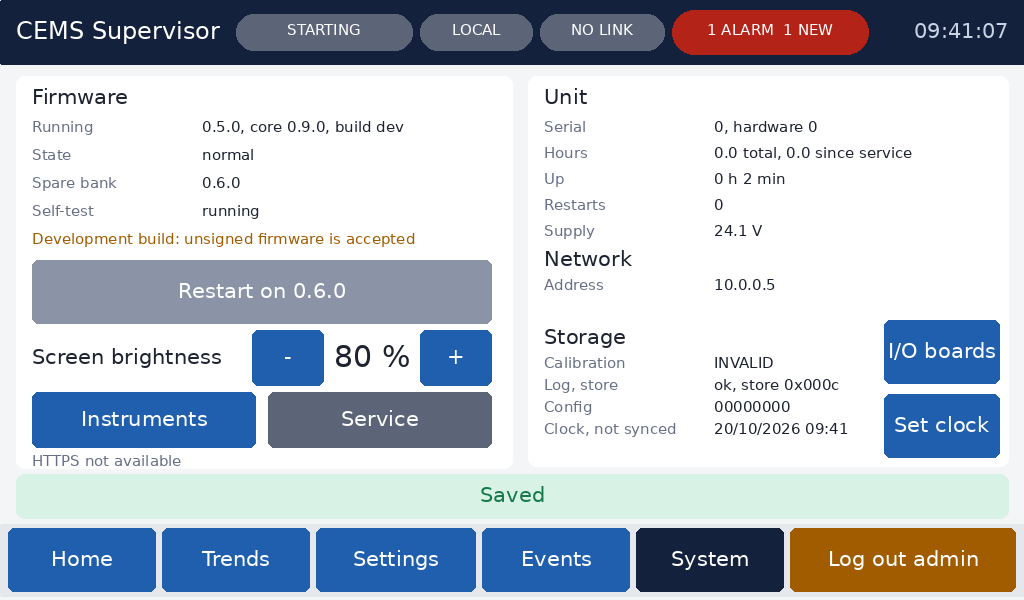
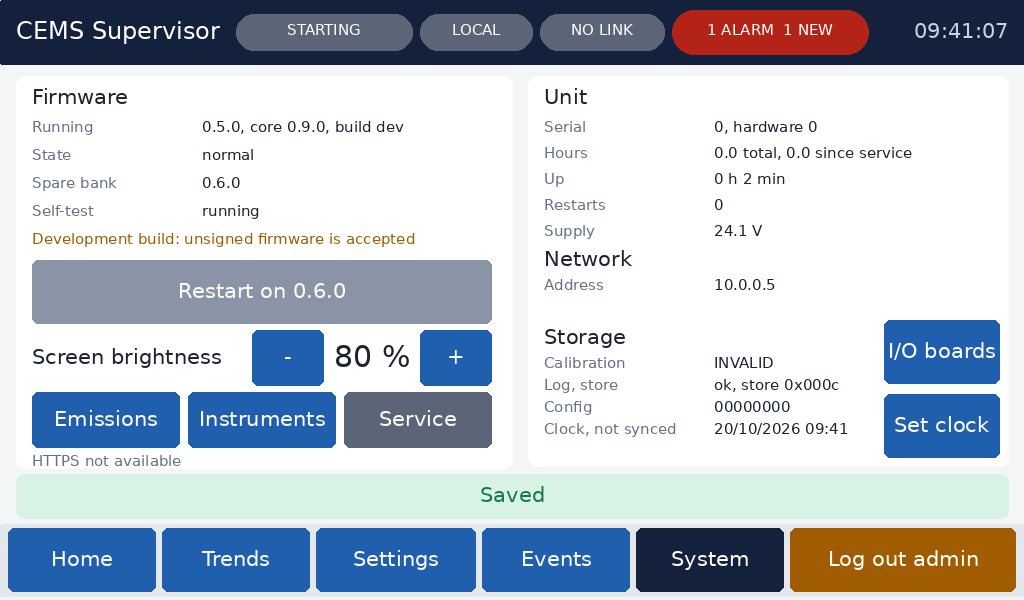
HMI: System > Emissions, the emissions engine's results (read only)
Each channel in use: now corrected (reference O2 where it applies, else
standard dry), this period so far, last validated average, last day,
each greyed with its quality word when not valid. Under it: status words
(above calibration range, over/below range, input missing, day invalid,
QAL2 due, discarded today), QAL3 state (ok, due, beyond the action
limit, OUT OF CONTROL zero/span) and the second period (10-min CO: last
average, how many above the limit today). Top line: operating or not,
period, reference; a configuration error names the channel. System gets
an Emissions button beside Instruments and Service. Operator manual 8d,
t_emis_screen, screenshots.

Claude-Session: https://claude.ai/code/session_01AbDXgecyAmn6R8hhL7qjD2

Changed region(s): [[0.0625, 0.63, 0.4375, 0.75]]

diff --git a/platform/ui/ui.c b/platform/ui/ui.c
@@ -29,6 +29,7 @@
 #include "plat_selftest.h"
 #include "plat_boardtest.h"
 #include "inst.h"
+#include "emis_bind.h"
 #include "plat_version.h"
 
 /* ---------------- layout and colours (1024 x 600) ---------------- */
@@ -80,6 +81,7 @@ enum {
     T_TR_ADD = 206, T_TR_DEL, T_TR_CLR, T_TRENDS,       /* trends */
     T_SVC = 226, T_SVC_BT, T_SVC_LOG,                  /* service screen, board test, add a service log entry */
     T_INST = 229,           /* System: open the instruments page */
+    T_EMIS = 237,           /* System: open the emissions page */
     T_AL_ROW0 = 220,        /* .. T_AL_ROW0 + ROWS - 1: tap an alarm for what to check */
     T_DISP = 230, T_DT_COLOURS, T_DT_TOUCH, T_DT_NEXT, T_DT_CLEAR, T_DT_DONE,  /* display test (bench bring-up) */
     T_FORCE = 240, T_FC_CLEAR_ALL,      /* Modbus force (commissioning) */
@@ -90,6 +92,7 @@ typedef enum { KB_NUM, KB_IP, KB_TEXT, KB_BOOL } kb_t;
 typedef enum { ACT_NONE, ACT_POST, ACT_BLOB, ACT_FW, ACT_FW_LOCAL, ACT_CAL, ACT_FORCE, ACT_ELEM, ACT_BT } act_t;
 #define TR_PENS 4
 #define INST_PT_ROWS 9u          /* instruments page: point rows shown */
+#define EMIS_ROWS 5u             /* emissions page: channel rows shown */
 #define TR_N    150              /* trend samples kept: 10 minutes at TR_MS */
 #define TR_MS   4000u
 
@@ -172,6 +175,7 @@ static struct {
     uint8_t  svc_step;
     uint8_t  inst_sel;             /* instruments page: the instrument shown (0..INST_MAX-1), its first point row */
     unsigned inst_first;
+    unsigned emis_first;           /* emissions page: first channel row (of the channels in use) */
     char     svc_tech[16];
     /* record editor */
     const ui_record_t *rec;
@@ -913,6 +917,11 @@ static void tap(uint8_t t, uint32_t now) {
             goto_scr(UI_TRENDS);
         }
         break;
+    case UI_EMIS:
+        if (t == T_BACK) goto_scr(UI_SYSTEM);
+        else if (t == T_PGUP) { U.emis_first = U.emis_first >= EMIS_ROWS ? U.emis_first - EMIS_ROWS : 0; U.dirty = true; }
+        else if (t == T_PGDN) { U.emis_first += EMIS_ROWS; U.dirty = true; }
+        break;
     case UI_INST:
         if (t == T_BACK) goto_scr(UI_SYSTEM);
         else if (t >= T_ROW0 && t < T_ROW0 + INST_MAX) { U.inst_sel = (uint8_t)(t - T_ROW0); U.inst_first = 0; U.dirty = true; }
@@ -951,6 +960,7 @@ static void tap(uint8_t t, uint32_t now) {
         } else if (t == T_IOB) goto_scr(UI_IOB);
         else if (t == T_SVC) goto_scr(UI_SERVICE);
         else if (t == T_INST) { U.inst_first = 0; goto_scr(UI_INST); }
+        else if (t == T_EMIS) { U.emis_first = 0; goto_scr(UI_EMIS); }
         else if (t == T_CAL) { unsigned a; if (plat_cal_active(&a)) U.cal_ch = (uint8_t)a; goto_scr(UI_CAL); }
         else if (t == T_BRIGHT_DN) { U.bright = U.bright > 20 ? (uint8_t)(U.bright - 20) : 10; U.dirty = true; }
         else if (t == T_BRIGHT_UP) { U.bright = U.bright < 80 ? (uint8_t)(U.bright + 20) : 100; U.dirty = true; }
@@ -1401,8 +1411,9 @@ static void draw_system(uint32_t now) {
     button(T_BRIGHT_DN, 252, BODY_Y + 254, 72, 56, "-", C_ACCENT, true);
     color(C_INK); text(372, BODY_Y + 282, F_BIG, OPT_CENTER, b);
     button(T_BRIGHT_UP, 420, BODY_Y + 254, 72, 56, "+", C_ACCENT, true);
-    button(T_INST, 32, BODY_Y + 316, 224, 56, "Instruments", C_ACCENT, true);   /* third-party analysers (inst.h) */
-    button(T_SVC, 268, BODY_Y + 316, 224, 56, "Service", 0x5B6577u, true);   /* self-test, board test, service log, display test */
+    button(T_EMIS, 32, BODY_Y + 316, 148, 56, "Emissions", C_ACCENT, true);     /* the emissions engine's results (emis.h) */
+    button(T_INST, 188, BODY_Y + 316, 148, 56, "Instruments", C_ACCENT, true);  /* third-party analysers (inst.h) */
+    button(T_SVC, 344, BODY_Y + 316, 148, 56, "Service", 0x5B6577u, true);      /* self-test, board test, service log, display test */
     /* HTTPS fingerprint: a technician compares it with the browser's to know it reached this unit */
     const char *fp = tls_fingerprint();
     color(C_MUTE); text(32, BODY_Y + 378, F_SMALL, 0, fp[0] ? "HTTPS certificate fingerprint (SHA-256)" : "HTTPS not available");
@@ -2100,6 +2111,112 @@ static void draw_tr_pick(void) {
     if (!n) { color(C_MUTE); text(456, BODY_Y + 200, F_TEXT, OPT_CENTER, "No values to trend"); }
     button(T_PGUP, 908, BODY_Y, 100, 120, "Up", C_ACCENT, U.tr_first > 0);
     button(T_PGDN, 908, BODY_Y + 136, 100, 120, "Down", C_ACCENT, U.tr_first + ROWS < n);
+    button(T_BACK, 908, BODY_Y + 272, 100, 120, "Back", 0x5B6577u, true);
+}
+
+/* ---------------- emissions (emis.h, docs/EMISSIONS_MATH.md), read only ---------------- */
+static const char *const emis_slot[EMIS_CH_MAX] = {     /* the standard block's slot names (docs/MODBUS_STANDARD_BLOCK.md) */
+    "O2 dry", "O2 wet", "CO2", "CO", "NO", "NO2", "NOx as NO2", "SO2", "HCl", "HF", "NH3", "H2O",
+    "TOC as C", "CH4", "N2O", "H2S", "Hg", "Dust", "Flue gas flow", "Flue gas velocity",
+    "Stack temperature", "Stack pressure", "Sample flow", "Probe/line temp.", "Cooler temp.", "Cell temp.",
+    "Cabinet temp.", "Air/cal gas pressure", "Opacity", "TRS", "Spare 31", "Spare 32" };
+static const char *emis_unit(uint8_t u, bool raw) {      /* the unit a bank is in (EMISSIONS_MATH section 2) */
+    if (u == EMIS_U_PPM || u == EMIS_U_MG_ACT || u == EMIS_U_MG_STD) return raw ? (u == EMIS_U_PPM ? "ppm" : u == EMIS_U_MG_ACT ? "mg/m\xC2\xB3" : "mg/Nm\xC2\xB3") : "mg/Nm\xC2\xB3";
+    if (u == EMIS_U_PCT) return "%";
+    if (u == EMIS_U_FLOW_ACT || u == EMIS_U_FLOW_STD) return raw && u == EMIS_U_FLOW_ACT ? "m\xC2\xB3/h" : "Nm\xC2\xB3/h";
+    return "";
+}
+/* one value right-aligned at x: the number and unit, greyed with its quality word under it when not valid */
+static void emis_cell(int16_t x, int16_t y, float v, uint8_t q, const char *unit) {
+    char b[40], n[24];
+    if (q == PLAT_Q_UNAVAILABLE || !isfinite(v)) snprintf(n, sizeof n, "----"); else fmt_float(n, sizeof n, (double)v);
+    snprintf(b, sizeof b, "%s %s", n, isfinite(v) && q != PLAT_Q_UNAVAILABLE ? unit : "");
+    color(q == PLAT_Q_VALID ? C_INK : C_GREY); text(x, y, F_SMALL, OPT_CENTERY | OPT_RIGHTX, b);
+    if (q != PLAT_Q_VALID) { color(q_color(q)); text(x, (int16_t)(y + 18), F_SMALL, OPT_CENTERY | OPT_RIGHTX, plat_quality_name(q)); }
+}
+static void emis_notes(unsigned i, char *b, size_t cap, uint32_t *c) {   /* status words, QAL3, the second period */
+    static const struct { uint16_t bit; const char *w; } st[] = {
+        { EMIS_ST_QAL2_REVIEW, "new QAL2 due" }, { EMIS_ST_ABOVE_CAL, "above calibration range" }, { EMIS_ST_OVER_RANGE, "over range" },
+        { EMIS_ST_BELOW_RANGE, "below range" }, { EMIS_ST_O2_HIGH, "O2 too high" }, { EMIS_ST_INPUT_MISSING, "input missing" },
+        { EMIS_ST_DAY_INVALID, "last day invalid" }, { EMIS_ST_AVG_INCOMPLETE, "last average discarded" }, { EMIS_ST_NO_QAL2, "no QAL2" } };
+    const uint16_t bad = EMIS_ST_QAL2_REVIEW | EMIS_ST_ABOVE_CAL | EMIS_ST_OVER_RANGE | EMIS_ST_BELOW_RANGE | EMIS_ST_O2_HIGH |
+                         EMIS_ST_INPUT_MISSING | EMIS_ST_DAY_INVALID;
+    size_t o = 0; b[0] = 0; *c = C_MUTE;
+    uint16_t s = emis_res.status[i];
+    for (unsigned k = 0; k < sizeof st / sizeof st[0] && o + 2u < cap; ++k)
+        if (s & st[k].bit) o += (size_t)snprintf(b + o, cap - o, "%s%s", o ? ", " : "", st[k].w);
+    if (s & bad) *c = C_WARN;
+    uint8_t q3 = emis_q3.status[i];
+    if ((q3 & EMIS_Q3_ON) && o + 2u < cap) {
+        const char *w = (q3 & (EMIS_Q3_ZERO_OUT | EMIS_Q3_SPAN_OUT)) ? ((q3 & EMIS_Q3_ZERO_OUT) && (q3 & EMIS_Q3_SPAN_OUT) ? "QAL3 OUT OF CONTROL (zero, span)"
+                        : q3 & EMIS_Q3_ZERO_OUT ? "QAL3 OUT OF CONTROL (zero)" : "QAL3 OUT OF CONTROL (span)")
+                      : q3 & EMIS_Q3_DUE ? "QAL3 check due"
+                      : q3 & (EMIS_Q3_ZERO_WARN | EMIS_Q3_SPAN_WARN) ? "QAL3 last check beyond the action limit" : "QAL3 ok";
+        o += (size_t)snprintf(b + o, cap - o, "%s%s", o ? ", " : "", w);
+        if (q3 & (EMIS_Q3_ZERO_OUT | EMIS_Q3_SPAN_OUT)) *c = C_BAD;
+        else if (q3 & (EMIS_Q3_DUE | EMIS_Q3_ZERO_WARN | EMIS_Q3_SPAN_WARN) && *c != C_BAD) *c = C_WARN;
+    }
+    if (emis_set.period2_s && emis_set.ch.elv2[i] > 0.0f && o + 2u < cap) {
+        char a[24];
+        if (emis_res.q2[i] == PLAT_Q_VALID && isfinite(emis_res.v2[i])) fmt_float(a, sizeof a, (double)emis_res.v2[i]); else snprintf(a, sizeof a, "----");
+        o += (size_t)snprintf(b + o, cap - o, "%s%u-min %s %s, %u of %u above the limit today", o ? "; " : "", (unsigned)(emis_set.period2_s / 60u), a,
+                              emis_unit(emis_set.ch.unit[i], false), (unsigned)emis_res.n2_above[i], (unsigned)emis_res.n2[i]);
+        if (emis_res.n2[i] && emis_res.n2_above[i] * 20u > emis_res.n2[i] && *c != C_BAD) *c = C_WARN;   /* more than 5 % above */
+    }
+}
+
+static void draw_emis(void) {
+    char b[128];
+    box(16, BODY_Y, 880, 392, C_CARD, 8);
+    if (!emis_set.enable) {
+        color(C_MUTE); text(456, BODY_Y + 180, F_TEXT, OPT_CENTER, "The emissions engine is off.");
+        text(456, BODY_Y + 214, F_SMALL, OPT_CENTER, "It is set up on the web page, Emissions.");
+        button(T_BACK, 908, BODY_Y + 272, 100, 120, "Back", 0x5B6577u, true);
+        return;
+    }
+    if (emis_p_cfg_error) {
+        if (emis_p_cfg_error > EMIS_CH_MAX) snprintf(b, sizeof b, "The plant settings don't fit together: the engine is stopped.");
+        else snprintf(b, sizeof b, "Channel %s has a setting that doesn't fit: the engine is stopped.", emis_slot[emis_p_cfg_error - 1u]);
+        color(C_BAD);
+    } else {
+        snprintf(b, sizeof b, "Plant %s. Averages every %u min, at %.4g %% %s.", emis_p_operating ? "operating" : "NOT operating: averages paused",
+                 (unsigned)(emis_set.period_s / 60u), (double)emis_set.ref_pct, emis_set.diluent == EMIS_DIL_CO2 ? "CO2" : "O2");
+        color(emis_p_operating ? C_INK : C_WARN);
+    }
+    text(32, BODY_Y + 18, F_SMALL, OPT_CENTERY, b);
+    color(C_MUTE);
+    text(430, BODY_Y + 44, F_SMALL, OPT_CENTERY | OPT_RIGHTX, "Now, corrected");
+    text(590, BODY_Y + 44, F_SMALL, OPT_CENTERY | OPT_RIGHTX, "This period");
+    text(740, BODY_Y + 44, F_SMALL, OPT_CENTERY | OPT_RIGHTX, "Validated");
+    text(880, BODY_Y + 44, F_SMALL, OPT_CENTERY | OPT_RIGHTX, "Last day");
+    unsigned used = 0, row = 0;
+    for (unsigned i = 0; i < EMIS_CH_MAX; ++i) {
+        uint8_t u = emis_set.ch.unit[i];
+        if (u == EMIS_U_OFF) continue;
+        if (used++ < U.emis_first || row >= EMIS_ROWS) continue;
+        int16_t y = (int16_t)(BODY_Y + 60 + row * 66);
+        color(C_LINE); eve_line(E, 24, y, 888, y, 1);
+        bool ref = emis_set.ch.ref[i];
+        const char *un = emis_unit(u, false);
+        color(C_INK); text(32, (int16_t)(y + 16), F_TEXT, OPT_CENTERY, emis_slot[i]);
+        emis_cell(430, (int16_t)(y + 16), emis_res.v[ref ? EMIS_B_REF : EMIS_B_STD][i], emis_res.q[EMIS_Q_CALC][i], un);
+        emis_cell(590, (int16_t)(y + 16), emis_res.v[EMIS_B_RUN][i], emis_res.q[EMIS_Q_RUN][i], un);
+        emis_cell(740, (int16_t)(y + 16), emis_res.v[EMIS_B_VAL][i], emis_res.q[EMIS_Q_AVG][i], un);
+        emis_cell(880, (int16_t)(y + 16), emis_res.v[EMIS_B_DAY][i], emis_res.q[EMIS_Q_DAY][i], un);
+        uint32_t c;
+        emis_notes(i, b, sizeof b, &c);
+        if (emis_res.discarded[i]) {
+            size_t o = strlen(b);
+            snprintf(b + o, sizeof b - o, "%s%u discarded today", o ? ", " : "", (unsigned)emis_res.discarded[i]);
+        }
+        if (strlen(b) > 92) { b[89] = b[90] = b[91] = '.'; b[92] = 0; }   /* one line under the numbers' quality words */
+        color(c); text(32, (int16_t)(y + 52), F_SMALL, OPT_CENTERY, b);
+        ++row;
+    }
+    if (!used) { color(C_MUTE); text(456, BODY_Y + 200, F_TEXT, OPT_CENTER, "No channels are set up yet"); }
+    if (U.emis_first >= used && used) U.emis_first = (used - 1u) / EMIS_ROWS * EMIS_ROWS;
+    button(T_PGUP, 908, BODY_Y, 100, 120, "Up", C_ACCENT, U.emis_first > 0);
+    button(T_PGDN, 908, BODY_Y + 136, 100, 120, "Down", C_ACCENT, U.emis_first + EMIS_ROWS < used);
     button(T_BACK, 908, BODY_Y + 272, 100, 120, "Back", 0x5B6577u, true);
 }
 
@@ -2994,6 +3111,7 @@ void ui_draw(eve_t *e, uint32_t now) {
     case UI_TR_PICK: draw_tr_pick(); break;
     case UI_SERVICE: draw_service(); break;
     case UI_INST: draw_inst(); break;
+    case UI_EMIS: draw_emis(); break;
     case UI_CLOCK: draw_clock(); break;
     case UI_APP:   draw_app(); break;
     case UI_REC:   draw_rec(); break;

diff --git a/tests/test_ui.c b/tests/test_ui.c
@@ -33,6 +33,7 @@ extern uint8_t plat_alarm_tier_route[AL_TIERS], plat_alarm_prio[ALARM_ID_MAX + 1
 #include "plat_cal.h"
 #include "plat_service.h"
 #include "inst.h"
+#include "emis_bind.h"
 #include "plat_version.h"
 
 static eve_sim_t sim;
@@ -967,6 +968,44 @@ static void t_inst_screen(void) {
     memset(&inst_tags, 0, sizeof inst_tags); memset(&inst_pt, 0, sizeof inst_pt);
 }
 
+/* System > Emissions: the engine's results, read only (the engine itself is tested in test_emis.c) */
+static void t_emis_screen(void) {
+    setup();
+    emis_set_t keep = emis_set;
+    memset(&emis_res, 0, sizeof emis_res); memset(&emis_q3, 0, sizeof emis_q3);
+    emis_set.enable = false;
+    CHECK(tap("System")); CHECK(tap("Emissions")); CHECK_EQ(ui_screen(), UI_EMIS);
+    CHECK(shows("The emissions engine is off."));
+    emis_set.enable = true; emis_set.period_s = 1800; emis_set.period2_s = 600; emis_set.ref_pct = 11.0f; emis_set.diluent = EMIS_DIL_O2;
+    memset(emis_set.ch.unit, 0, sizeof emis_set.ch.unit);
+    emis_set.ch.unit[0] = EMIS_U_PCT;                                                   /* O2 dry */
+    emis_set.ch.unit[3] = EMIS_U_MG_STD; emis_set.ch.ref[3] = true; emis_set.ch.elv2[3] = 150.0f;   /* CO */
+    emis_set.ch.unit[6] = EMIS_U_PPM; emis_set.ch.ref[6] = true; emis_set.ch.elv2[6] = 0.0f;        /* NOx */
+    emis_p_operating = true; emis_p_cfg_error = 0;
+    for (unsigned b = 0; b < EMIS_BANKS; ++b) { emis_res.v[b][0] = 9.8f; emis_res.v[b][3] = 12.4f + (float)b; emis_res.v[b][6] = 140.0f; }
+    for (unsigned k = 0; k < EMIS_QS; ++k) { emis_res.q[k][0] = emis_res.q[k][3] = PLAT_Q_VALID; emis_res.q[k][6] = PLAT_Q_VALID; }
+    emis_res.q[EMIS_Q_DAY][6] = PLAT_Q_UNAVAILABLE;
+    emis_res.status[6] = EMIS_ST_ABOVE_CAL; emis_res.discarded[6] = 2;
+    emis_res.v2[3] = 18.0f; emis_res.q2[3] = PLAT_Q_VALID; emis_res.n2[3] = 40; emis_res.n2_above[3] = 1;
+    emis_q3.status[3] = EMIS_Q3_ON; emis_q3.status[6] = EMIS_Q3_ON | EMIS_Q3_DUE;
+    frame();
+    CHECK(shows("Plant operating. Averages every 30 min, at 11 % O2."));
+    CHECK(shows("O2 dry")); CHECK(shows("CO")); CHECK(shows("NOx as NO2"));
+    CHECK(shows("QAL3 ok; 10-min 18 mg/Nm")); CHECK(shows("1 of 40 above the limit today"));
+    CHECK(shows("above calibration range, QAL3 check due, 2 discarded today"));
+    CHECK(shows("----")); CHECK(shows("unavailable"));
+    dump("emissions");
+    emis_q3.status[3] = EMIS_Q3_ON | EMIS_Q3_SPAN_OUT; frame();
+    CHECK(shows("QAL3 OUT OF CONTROL (span)"));
+    emis_p_operating = false; frame();
+    CHECK(shows("NOT operating: averages paused"));
+    emis_p_cfg_error = 4; frame();
+    CHECK(shows("Channel CO has a setting that doesn't fit: the engine is stopped."));
+    CHECK(tap("Back")); CHECK_EQ(ui_screen(), UI_SYSTEM);
+    emis_set = keep; emis_p_cfg_error = 0; emis_p_operating = false;
+    memset(&emis_res, 0, sizeof emis_res); memset(&emis_q3, 0, sizeof emis_q3);
+}
+
 void test_ui_all(void) {
     bsp_host_reset();
     bsp_host.ms = 100000;
@@ -982,4 +1021,5 @@ void test_ui_all(void) {
     RUN(t_trends_screen);
     RUN(t_service_screen);
     RUN(t_inst_screen);
+    RUN(t_emis_screen);
 }

diff --git a/platform/include/ui.h b/platform/include/ui.h
@@ -46,7 +46,8 @@ enum { UI_HOME = 0, UI_PARAMS, UI_EDIT, UI_LOGIN, UI_EVENTS, UI_SYSTEM, UI_ALARM
        UI_TRENDS,       /* live trends: up to 4 values over the last 10 minutes */
        UI_TR_PICK,      /* choose a value to trend */
        UI_SERVICE,      /* service: self-test, board test, test record, service log, display test */
-       UI_INST };       /* third-party instruments on the I/O network: state, counters, values (inst.h), read only */
+       UI_INST,         /* third-party instruments on the I/O network: state, counters, values (inst.h), read only */
+       UI_EMIS };       /* emissions: corrected values, averages, validated and daily values, QAL3, second-period (CO) averages */
 
 void    ui_init(const ui_cfg_t *cfg, uint32_t now_ms);
 void    ui_input(uint8_t tag, uint32_t now_ms);     /* the tag under the finger now (0 = none); every 10..20 ms */

diff --git a/docs/OPERATOR_MANUAL.md b/docs/OPERATOR_MANUAL.md
@@ -158,6 +158,7 @@ instead of guessing. **Previous** and **Next** move between slots.
   - **Set clock** (admin). Only needed when there is no time server. "Clock, not synced" means nothing outside has confirmed the time;
   - **I/O boards**: each board's link, inputs, outputs, temperatures and faults, in words;
   - screen brightness;
+  - **Emissions** (see 8d);
   - **Instruments** (see 8c);
   - **Service** (see 9).
 
@@ -188,6 +189,15 @@ including test bits.
 - **Remove** takes the selected value off. **Restart** clears the lines and starts again.
 - A gap in a line means the value was not valid then: stale, unavailable, in maintenance and so on.
 - Trends keep recording while you use other screens. They are not saved: a restart clears them. For longer periods, download the data log from the web page.
+
+## 8d. Emissions (System, then Emissions)
+
+The emission values the limits are judged on, read only. The engine and its channels are set up on the web page (Emissions).
+
+- **The top line** says whether the plant is operating (averages only count operating time), the averaging period and the reference O2 (or CO2). If a setting doesn't fit, it says which channel and that the engine is stopped.
+- **Each channel in use** shows four values: **now, corrected** (to standard conditions, dry, and to the reference O2 where that applies), **this period** so far, the last **validated** average (after the confidence interval is subtracted), and the **last day**'s average. A greyed value has its quality word under it.
+- **The line under each channel** lists anything to act on: above the calibration range, over or below the analyser's range, input missing, last day invalid, a new QAL2 due, and averages discarded today. It also shows the QAL3 state (ok, check due, last check beyond the action limit, or OUT OF CONTROL for zero or span: adjust the analyser and reset its chart), and for a channel with a second, shorter limit (CO in waste incineration) the last 10-minute average and how many today were above it.
+- Amber means attention, red means QAL3 out of control.
 
 ## 8c. Instruments (System, then Instruments)
 
